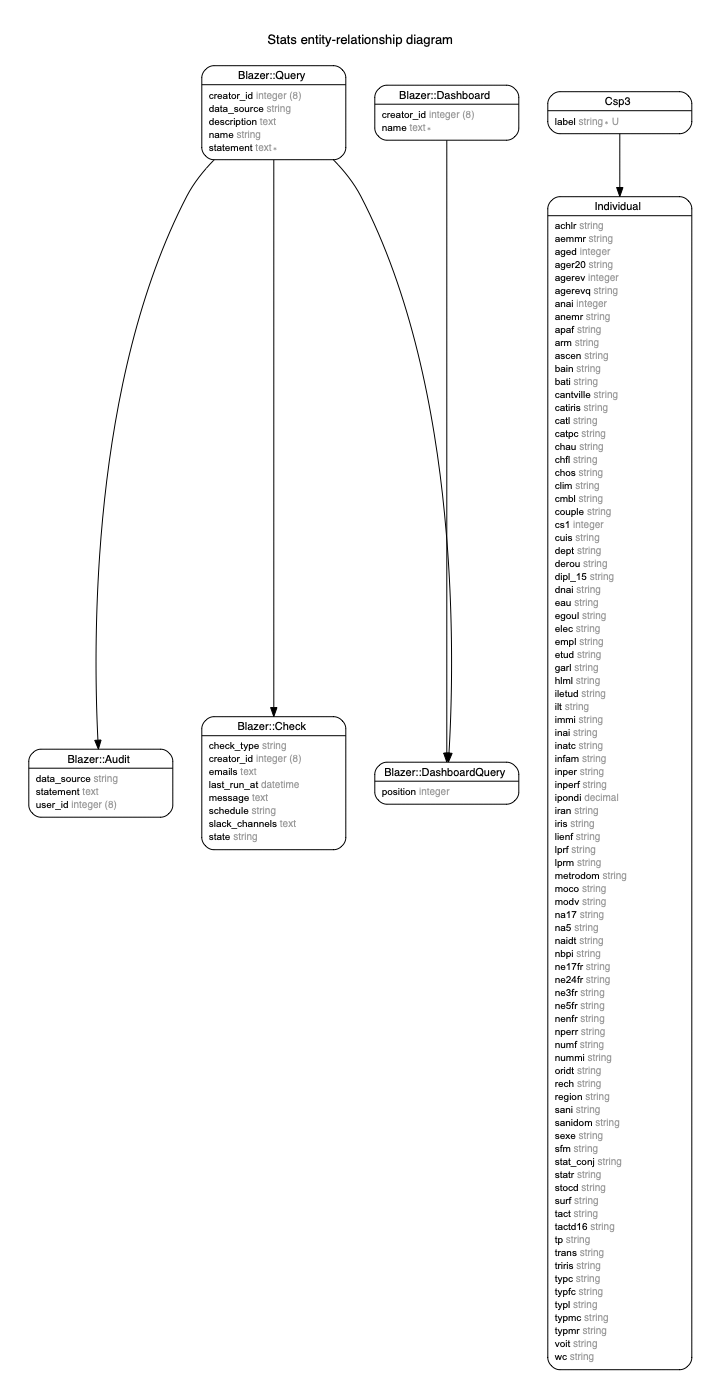
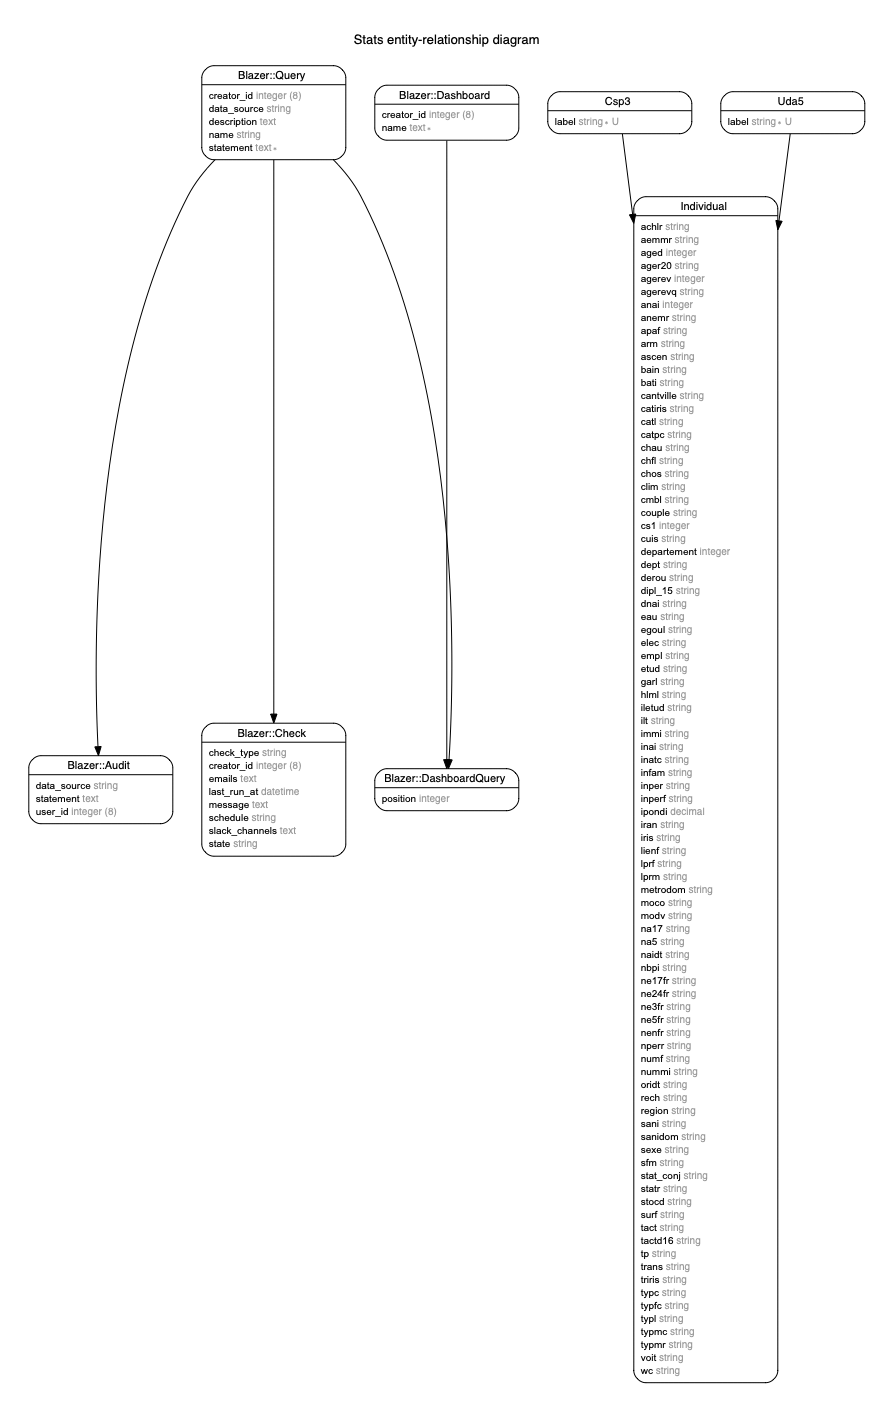
added UDA5

diff --git a/db/schema.rb b/db/schema.rb
@@ -10,7 +10,7 @@
 #
 # It's strongly recommended that you check this file into your version control system.
 
-ActiveRecord::Schema.define(version: 2020_01_05_140249) do
+ActiveRecord::Schema.define(version: 2020_01_05_150151) do
 
   # These are extensions that must be enabled in order to support this database
   enable_extension "plpgsql"
@@ -167,8 +167,17 @@ ActiveRecord::Schema.define(version: 2020_01_05_140249) do
     t.string "wc"
     t.bigint "csp3_id"
     t.integer "departement"
+    t.bigint "uda5_id"
     t.index ["csp3_id"], name: "index_individuals_on_csp3_id"
+    t.index ["uda5_id"], name: "index_individuals_on_uda5_id"
+  end
+
+  create_table "uda5s", force: :cascade do |t|
+    t.string "label"
+    t.datetime "created_at", null: false
+    t.datetime "updated_at", null: false
   end
 
   add_foreign_key "individuals", "csp3s"
+  add_foreign_key "individuals", "uda5s"
 end

diff --git a/db/migrate/20200105150151_recode_uda5_in_individuals.rb b/db/migrate/20200105150151_recode_uda5_in_individuals.rb
@@ -1,0 +1,19 @@
+class RecodeUda5InIndividuals < ActiveRecord::Migration[5.2]
+  CORRESPONDANCES = {
+    'Région Parisienne': [75, 77, 78, 91, 92, 93, 94, 95],
+    'Nord-Est': [8, 10, 51, 52, 2, 60, 80, 21, 58, 71, 89, 59, 62, 54, 55, 57, 88, 67, 68, 25, 39, 70, 90],
+    'Nord-Ouest': [27, 18, 14, 44, 22, 16, 76, 28, 50, 49, 29, 17, 36, 61, 53, 35, 79, 37, 72, 56, 86, 41, 85, 45],
+    'Sud-Ouest': [24, 33, 40, 47, 64, 9, 12, 31, 32, 46, 65, 81, 82, 19, 23, 87],
+    'Sud-Est': [1, 7, 26, 38, 42, 69, 73, 74, 3, 15, 43, 63, 11, 30, 34, 48, 66, 4, 5, 6, 13, 83, 84, 20]
+  }
+
+  def up
+    CORRESPONDANCES.each do |region, departements|
+      Individual.where(departement: departements).update_all(uda5_id: Uda5.find_by(label: region).id)
+    end
+  end
+
+  def down
+    Individual.update_all(uda5_id: nil)
+  end
+end

diff --git a/db/migrate/20200105145905_populate_uda5.rb b/db/migrate/20200105145905_populate_uda5.rb
@@ -1,0 +1,11 @@
+class PopulateUda5 < ActiveRecord::Migration[5.2]
+  LABELS = ['Région Parisienne', 'Nord-Est', 'Nord-Ouest', 'Sud-Ouest', 'Sud-Est']
+
+  def up
+    LABELS.each { |label| Uda5.create!(label: label) }
+  end
+
+  def down
+    LABELS.each { |label| Uda5.find_by(label: label).destroy }
+  end
+end

diff --git a/db/migrate/20200105145536_create_uda5s.rb b/db/migrate/20200105145536_create_uda5s.rb
@@ -1,0 +1,9 @@
+class CreateUda5s < ActiveRecord::Migration[5.2]
+  def change
+    create_table :uda5s do |t|
+      t.string :label
+
+      t.timestamps
+    end
+  end
+end

diff --git a/db/migrate/20200105145606_add_uda5_reference_to_individuals.rb b/db/migrate/20200105145606_add_uda5_reference_to_individuals.rb
@@ -1,0 +1,5 @@
+class AddUda5ReferenceToIndividuals < ActiveRecord::Migration[5.2]
+  def change
+    add_reference :individuals, :uda5, foreign_key: true
+  end
+end

diff --git a/app/models/uda5.rb b/app/models/uda5.rb
@@ -1,0 +1,5 @@
+class Uda5 < ApplicationRecord
+  has_many :individuals
+
+  validates :label, presence: true, uniqueness: { case_sensitive: false }
+end

diff --git a/test/models/uda5_test.rb b/test/models/uda5_test.rb
@@ -1,0 +1,7 @@
+require 'test_helper'
+
+class Uda5Test < ActiveSupport::TestCase
+  # test "the truth" do
+  #   assert true
+  # end
+end

diff --git a/app/models/individual.rb b/app/models/individual.rb
@@ -1,3 +1,4 @@
 class Individual < ApplicationRecord
   belongs_to :csp3
+  belongs_to :uda5
 end
